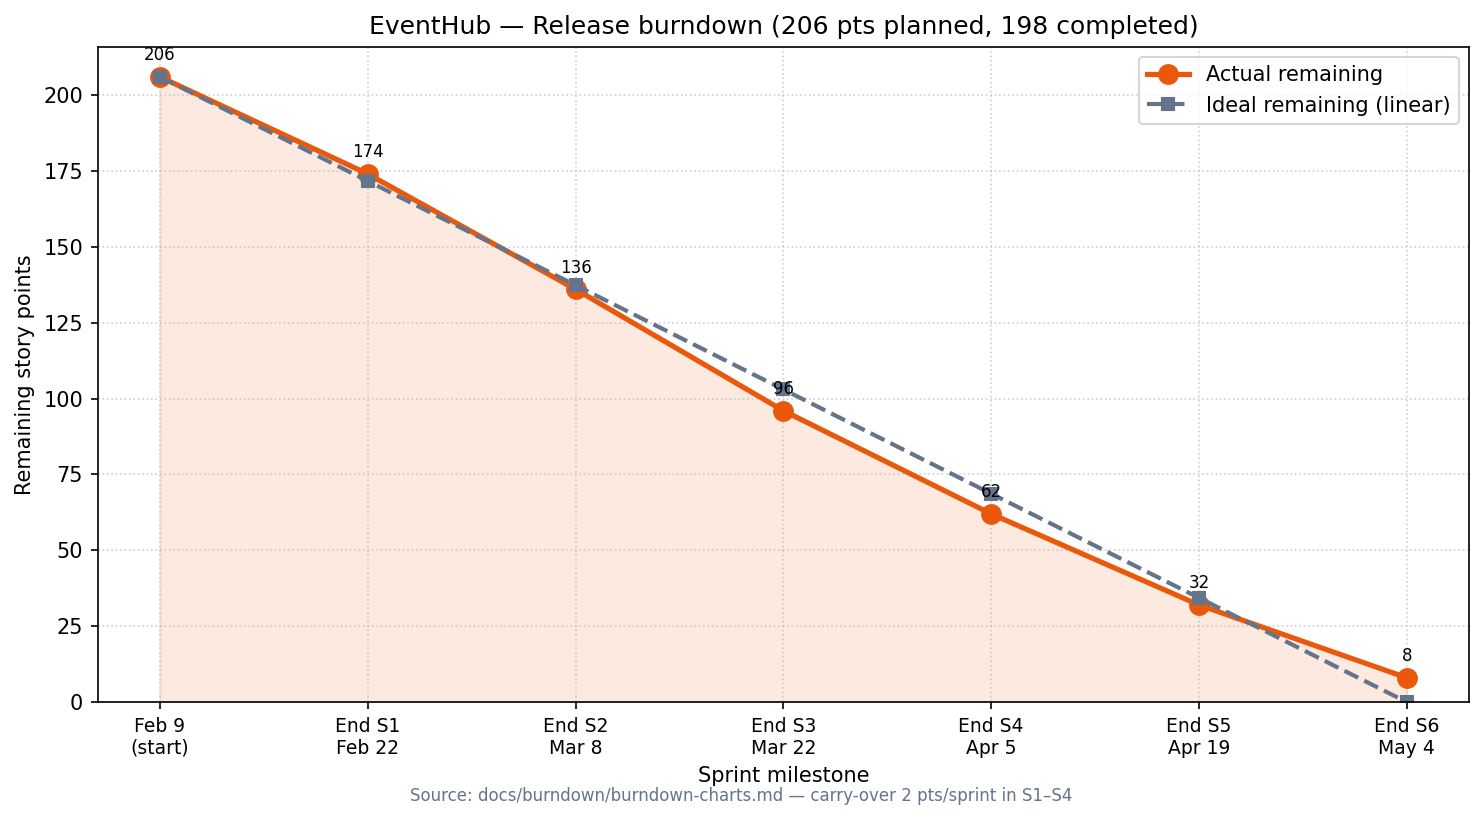
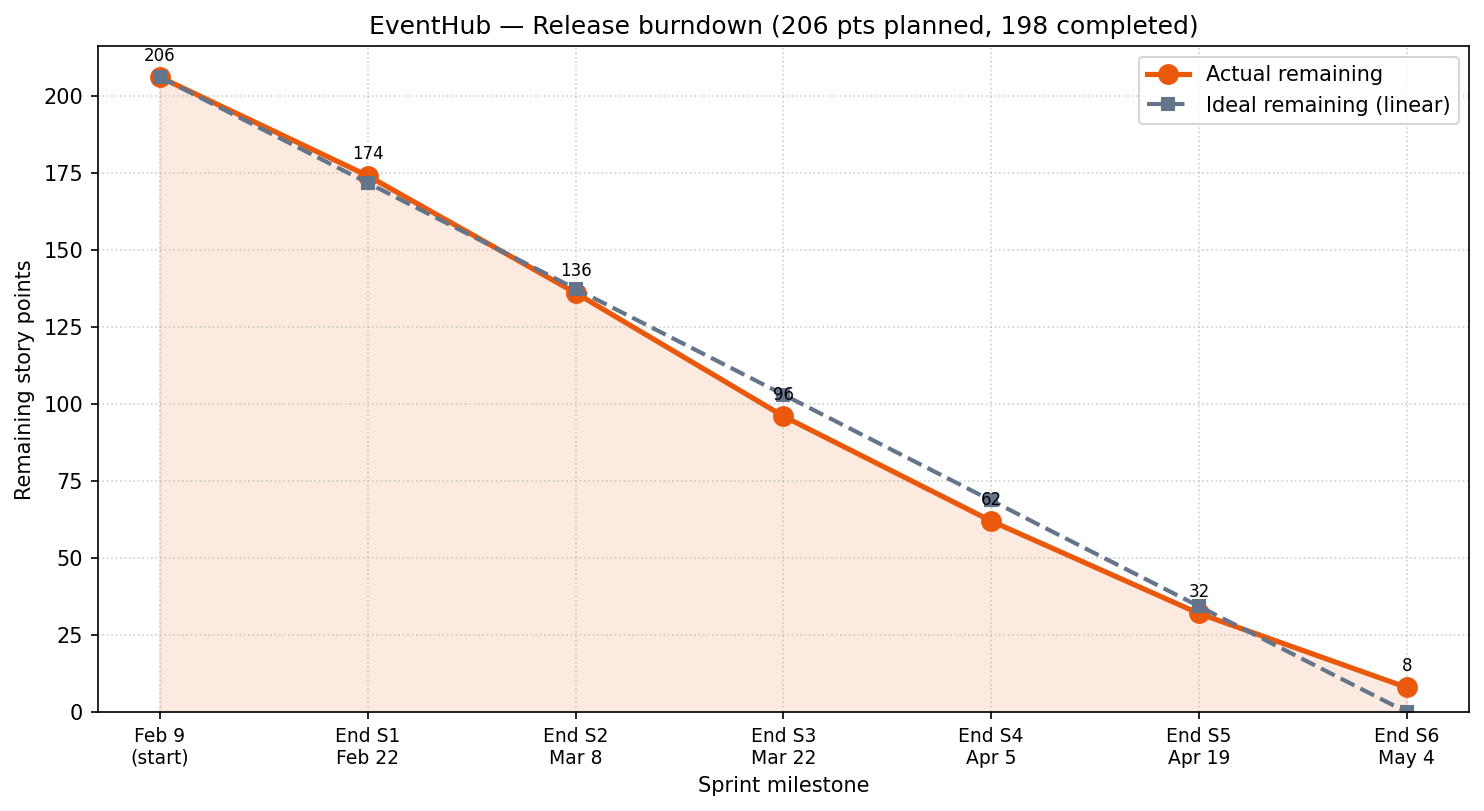
docs(burndown): remove bottom footer note; legend top on HTML chart

diff --git a/docs/burndown/release-burndown.html b/docs/burndown/release-burndown.html
@@ -47,12 +47,6 @@
       text-align: left;
     }
     th { background: #f1f5f9; font-weight: 600; }
-    .note {
-      margin-top: 1rem;
-      font-size: 0.8rem;
-      color: #64748b;
-      max-width: 960px;
-    }
   </style>
 </head>
 <body>
@@ -88,10 +82,6 @@
       </tr>
     </tfoot>
   </table>
-  <p class="note">
-    Source: <code>docs/burndown/burndown-charts.md</code>. Open this file in a browser (double-click or “Open with Live Server”).
-    Carry-over (2 pts each in Sprints 1–4) is reflected in sprint velocity table in that doc.
-  </p>
 
   <script>
     const sprints = [
@@ -169,7 +159,7 @@
         responsive: true,
         interaction: { intersect: false, mode: 'index' },
         plugins: {
-          legend: { position: 'bottom' },
+          legend: { position: 'top' },
           title: {
             display: true,
             text: 'Remaining story points vs sprint milestones',

diff --git a/docs/burndown/generate_release_burndown_png.py b/docs/burndown/generate_release_burndown_png.py
@@ -42,9 +42,7 @@ ax.set_ylim(0, total_scope + 10)
 for xi, yi in zip(x, actual):
     ax.annotate(str(int(yi)), (xi, yi), textcoords="offset points", xytext=(0, 8), ha="center", fontsize=8)
 
-fig.text(0.5, 0.02, "Source: docs/burndown/burndown-charts.md — carry-over 2 pts/sprint in S1–S4", ha="center", fontsize=8, color="#64748b")
 plt.tight_layout()
-plt.subplots_adjust(bottom=0.14)
 out = __file__.replace("generate_release_burndown_png.py", "release-burndown.png")
 plt.savefig(out, bbox_inches="tight")
 print("Wrote", out)
